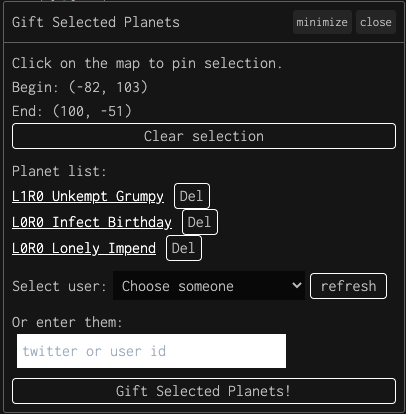
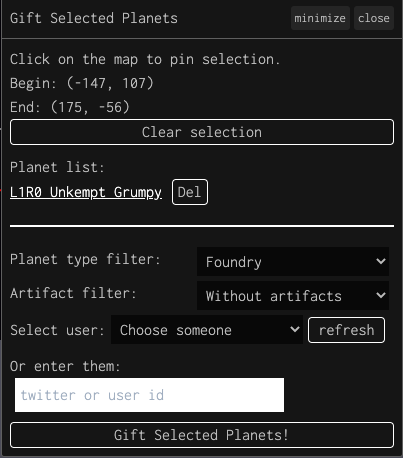
Add filter: planet type / hold artifact

Changed region(s): [[0.0, 0.0, 1.0, 1.0], [0.2978, 0.6377, 0.9529, 0.7536], [0.9231, 0.5507, 0.9529, 0.5797]]

diff --git a/content/diplomacy/gift-selected-planets/plugin.js b/content/diplomacy/gift-selected-planets/plugin.js
@@ -1,50 +1,149 @@
 // Gift Selected Planets
 // Easily transfer planets to others.
 // Select start/end coordinates to filter the planets.
+import {
+  PlanetType,
+  PlanetTypeNames
+} from "https://cdn.skypack.dev/@darkforest_eth/types";
+
 
 let viewport = ui.getViewport();
 let pg = df.getProcgenUtils();
+
+const ANY = -1;
+const PLANET_TYPES = [
+  { value: ANY, text: "Any" },
+  ...Object.values(PlanetType).filter((type) => type !== PlanetType.Unknown).map((type) => ({ value: type, text: PlanetTypeNames[type] }))
+];
+
+const ArtifactFilterType = {
+  ANY: ANY,
+  WITH: 0,
+  WITHOUT: 1,
+}
+const ARTIFACT_FILTER = [
+  { value: ArtifactFilterType.ANY, text: "Any" },
+  { value: ArtifactFilterType.WITH, text: "With artifacts" },
+  { value: ArtifactFilterType.WITHOUT, text: "Without artifacts" }
+]
+
+function blocksLeftToProspectExpiration(
+  currentBlockNumber,
+  prospectedBlockNumber
+) {
+  return (prospectedBlockNumber || 0) + 255 - currentBlockNumber;
+}
+
+function prospectExpired(currentBlockNumber, prospectedBlockNumber) {
+  return blocksLeftToProspectExpiration(currentBlockNumber, prospectedBlockNumber) <= 0;
+}
+
+function isFindable(planet, currentBlockNumber) {
+  return (
+    currentBlockNumber !== undefined &&
+    df.isPlanetMineable(planet) &&
+    planet.prospectedBlockNumber !== undefined &&
+    !planet.hasTriedFindingArtifact &&
+    !planet.unconfirmedFindArtifact &&
+    !prospectExpired(currentBlockNumber, planet.prospectedBlockNumber)
+  );
+}
+
+function isProspectable(planet) {
+  return df.isPlanetMineable(planet) && planet.prospectedBlockNumber === undefined && !planet.unconfirmedProspectPlanet;
+}
+
+function hasArtifact(planet) {
+  return planet.heldArtifactId != null
+}
+
+function canHaveArtifact(planet) {
+  const currentBlockNumber = df.contractsAPI.ethConnection.blockNumber;
+  return isProspectable(planet) || isFindable(planet, currentBlockNumber);
+}
+
+function createDivider() {
+  let e = document.createElement('div');
+  e.style.width = "100%";
+  e.style.border = "0.1px solid white";
+  e.style.margin = "20px 0";
+  e.style.height = "0";
+  return e;
+}
+
+function createSelect(options, onchange) {
+  let e = document.createElement('select');
+  e.style.background = 'rgb(8,8,8)';
+  e.style.padding = '5px';
+  e.style.marginLeft = '5px';
+  e.style.marginRight = '5px';
+  e.style.width = "50%";
+  if (options && options.length > 0) {
+    options.forEach(o => {
+      let option = document.createElement('option');
+      option.value = o.value;
+      option.innerText = o.text;
+      e.appendChild(option);
+    })
+  }
+  if (onchange) {
+    e.onchange = onchange;
+  }
+  return e;
+}
+
+function createWrapper(labelText, children) {
+  let wrapper = document.createElement('div');
+  wrapper.style.marginBottom = '10px';
+
+  if (labelText) {
+    let label = document.createElement('span');
+    label.innerText = labelText;
+  
+    wrapper.appendChild(label);
+  }
+
+  if (children && children.length > 0) {
+    children.forEach(e => wrapper.appendChild(e));
+  }
+
+  return wrapper;
+}
+
+function createButton(text, width, onclick) {
+  let btn = document.createElement('button');
+  btn.innerText = text;
+  btn.style.width = width;
+  btn.onclick = onclick;
+  return btn;
+}
 
 class Plugin {
   constructor() {
     this.selectedPlanets = [];
 
-    this.xyWrapper = document.createElement('div');
-    this.xyWrapper.style.marginBottom = '10px';
-
-    let msg = document.createElement('div');
-    msg.innerText = 'Click on the map to pin selection.';
     this.beginXY = document.createElement('div');
     this.endXY = document.createElement('div');
 
-    let clear = document.createElement('button');
-    clear.innerText = 'Clear selection';
-    clear.style.width = '100%';
-    clear.onclick = () => {
+    let clear = createButton('Clear selection', '100%', () => {
       this.beginCoords = null;
       this.beginXY.innerText = 'Begin: ???';
       this.endCoords = null;
       this.endXY.innerText = '';
       this.selectedPlanets = [];
       this.renderPlanetList();
-    }
+    });
 
-    this.planetListContainer = document.createElement("div");
-    this.planetListContainer.innerText = "Planet list:";
-    this.planetListContainer.style.marginTop = '10px';
+    this.xyWrapper = createWrapper("Click on the map to pin selection.", [this.beginXY, this.endXY, clear]);
 
-    this.xyWrapper.appendChild(msg);
-    this.xyWrapper.appendChild(this.beginXY);
-    this.xyWrapper.appendChild(this.endXY);
-    this.xyWrapper.appendChild(clear);
-    this.xyWrapper.appendChild(this.planetListContainer);
+    this.planetListContainer = createWrapper('Planet list:');
 
-    this.userSelect = document.createElement('select');
-    this.userSelect.style.background = 'rgb(8,8,8)';
-    this.userSelect.style.padding = '5px';
-    this.userSelect.style.marginLeft = '5px';
-    this.userSelect.style.marginRight = '5px';
-    this.userSelect.style.width = '50%';
+    this.planetTypeFilter = createSelect(PLANET_TYPES, this.filterPlanet);
+    this.planetTypeFilter.style.float = "right";
+    this.artifactFilter = createSelect(ARTIFACT_FILTER, this.filterPlanet);
+    this.artifactFilter.style.float = "right";
+
+    this.userSelect = createSelect();
     this.refreshUsers();
 
     this.userInput = document.createElement('input');
@@ -58,6 +157,11 @@ class Plugin {
     this.feedback.style.marginBottom = '10px';
     this.feedback.style.textAlign = 'center';
   }
+
+  filterPlanet = () => {
+    this.selectedPlanets = df.getMyPlanets().filter(p => this.isInSelection(p)).sort((a, b) => b.planetLevel - a.planetLevel);
+    this.renderPlanetList();
+  };
 
   planetLink = (planet, clickable = true) => {
     const locationId = planet.locationId;
@@ -92,12 +196,8 @@ class Plugin {
       const pElement = this.renderPlanet(planet);
       this.planetListContainer.append(pElement);
 
-      // deleteButton for remove pair from the list
-      const delButton = document.createElement("button");
-      this.planetListContainer.append(delButton);
-      delButton.innerText = "Del";
-      delButton.style.marginLeft = "10px";
-      delButton.addEventListener("click", () => {
+      // deleteButton for remove planet from the list
+      const delButton = createButton('Del', 'auto', () => {
         for (let i = 0; i < this.selectedPlanets.length; i++) {
           if (this.selectedPlanets[i] == planet) {
             this.selectedPlanets.splice(i, 1);
@@ -106,6 +206,8 @@ class Plugin {
         }
         this.renderPlanetList(this.planetListContainer);
       });
+      delButton.style.marginLeft = "10px";
+      this.planetListContainer.append(delButton);
 
       // new line
       this.planetListContainer.append(document.createElement("br"));
@@ -188,7 +290,15 @@ class Plugin {
     const x = planet.location.coords.x, y = planet.location.coords.y;
     const x_in_range = (x - this.beginCoords.x) * (x - this.endCoords.x) <= 0;
     const y_in_range = (y - this.beginCoords.y) * (y - this.endCoords.y) <= 0;
-    return x_in_range && y_in_range;
+    let in_range =  x_in_range && y_in_range;
+    if (!in_range) return false;
+    const planetType = +this.planetTypeFilter.value, artifact = +this.artifactFilter.value;
+    if (planetType !== ANY && planetType !== planet.planetType) return false;
+    if (artifact !== ArtifactFilterType.ANY) {
+      const withArtifact = hasArtifact(planet) || canHaveArtifact(planet);
+      if ((artifact === ArtifactFilterType.WITH && !withArtifact) || (artifact === ArtifactFilterType.WITHOUT && withArtifact)) return false;
+    };
+    return true;
   }
 
   onMouseMove = () => {
@@ -216,8 +326,7 @@ class Plugin {
 
       if (this.endCoords == null) {
         this.endCoords = coords;
-        this.selectedPlanets = df.getMyPlanets().filter(p => this.isInSelection(p)).sort((a, b) => b.planetLevel - a.planetLevel);
-        this.renderPlanetList();
+        this.filterPlanet();
         return;
       }
     }
@@ -227,36 +336,22 @@ class Plugin {
     window.addEventListener('mousemove', this.onMouseMove);
     window.addEventListener('click', this.onClick);
 
-    let selectWrapper = document.createElement('div');
-    selectWrapper.style.marginBottom = '10px';
+    let planetTypeWrapper = createWrapper("Planet type filter:", [this.planetTypeFilter]);
 
-    let selectLabel = document.createElement('span');
-    selectLabel.innerText = 'Select user:';
+    let artifactFilterWrapper = createWrapper("Artifact filter:", [this.artifactFilter]);
 
-    let refreshButton = document.createElement('button');
-    refreshButton.innerText = 'refresh';
-    refreshButton.style.width = '20%';
-    refreshButton.onclick = this.refreshUsers;
+    let refreshButton = createButton('refresh', '20%', this.refreshUsers);
+    let selectWrapper = createWrapper("Select user:", [this.userSelect, refreshButton]);
 
-    selectWrapper.appendChild(selectLabel);
-    selectWrapper.appendChild(this.userSelect);
-    selectWrapper.appendChild(refreshButton);
+    let inputWrapper = createWrapper('Or enter them:', [this.userInput]);
 
-    let inputWrapper = document.createElement('div');
-    inputWrapper.style.marginBottom = '10px';
-
-    let inputLabel = document.createElement('span');
-    inputLabel.innerText = 'Or enter them:';
-
-    inputWrapper.appendChild(inputLabel);
-    inputWrapper.appendChild(this.userInput);
-
-    let giftButton = document.createElement('button');
-    giftButton.style.width = '100%';
-    giftButton.innerText = 'Gift Selected Planets!';
-    giftButton.onclick = this.giftPlanets;
+    let giftButton = createButton('Gift Selected Planets!', '100%', this.giftPlanets);
 
     container.appendChild(this.xyWrapper);
+    container.appendChild(this.planetListContainer);
+    container.appendChild(createDivider());
+    container.appendChild(planetTypeWrapper);
+    container.appendChild(artifactFilterWrapper);
     container.appendChild(selectWrapper);
     container.appendChild(inputWrapper);
     container.appendChild(this.feedback);
